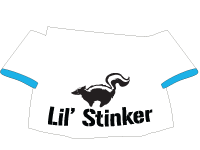
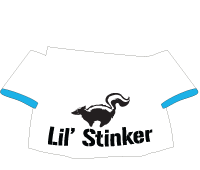
update hand and shirt img

diff --git a/app/src/main/java/com/rpg/southparkavatars/character/clothing/concrete/Hand.java b/app/src/main/java/com/rpg/southparkavatars/character/clothing/concrete/Hand.java
@@ -8,8 +8,8 @@ public class Hand extends Clothing {
     public Hand(@JsonProperty("coolness") int coolness, @JsonProperty("path") String path) {
         super(coolness, path);
 
-        setScale(2.8f);
-        setXPosDivider(2f);
-        setYPosDivider(3.5f);
+        setScale(0.7f);
+        setXPosDivider(4.1f);
+        setYPosDivider(1.35f);
     }
 }

diff --git a/app/src/main/java/com/rpg/southparkavatars/character/clothing/concrete/Shirt.java b/app/src/main/java/com/rpg/southparkavatars/character/clothing/concrete/Shirt.java
@@ -8,8 +8,8 @@ public class Shirt extends Clothing {
     public Shirt(@JsonProperty("coolness") int coolness, @JsonProperty("path") String path) {
         super(coolness, path);
 
-        setScale(2.8f);
+        setScale(1.7f);
         setXPosDivider(2f);
-        setYPosDivider(3.5f);
+        setYPosDivider(1.45f);
     }
 }
